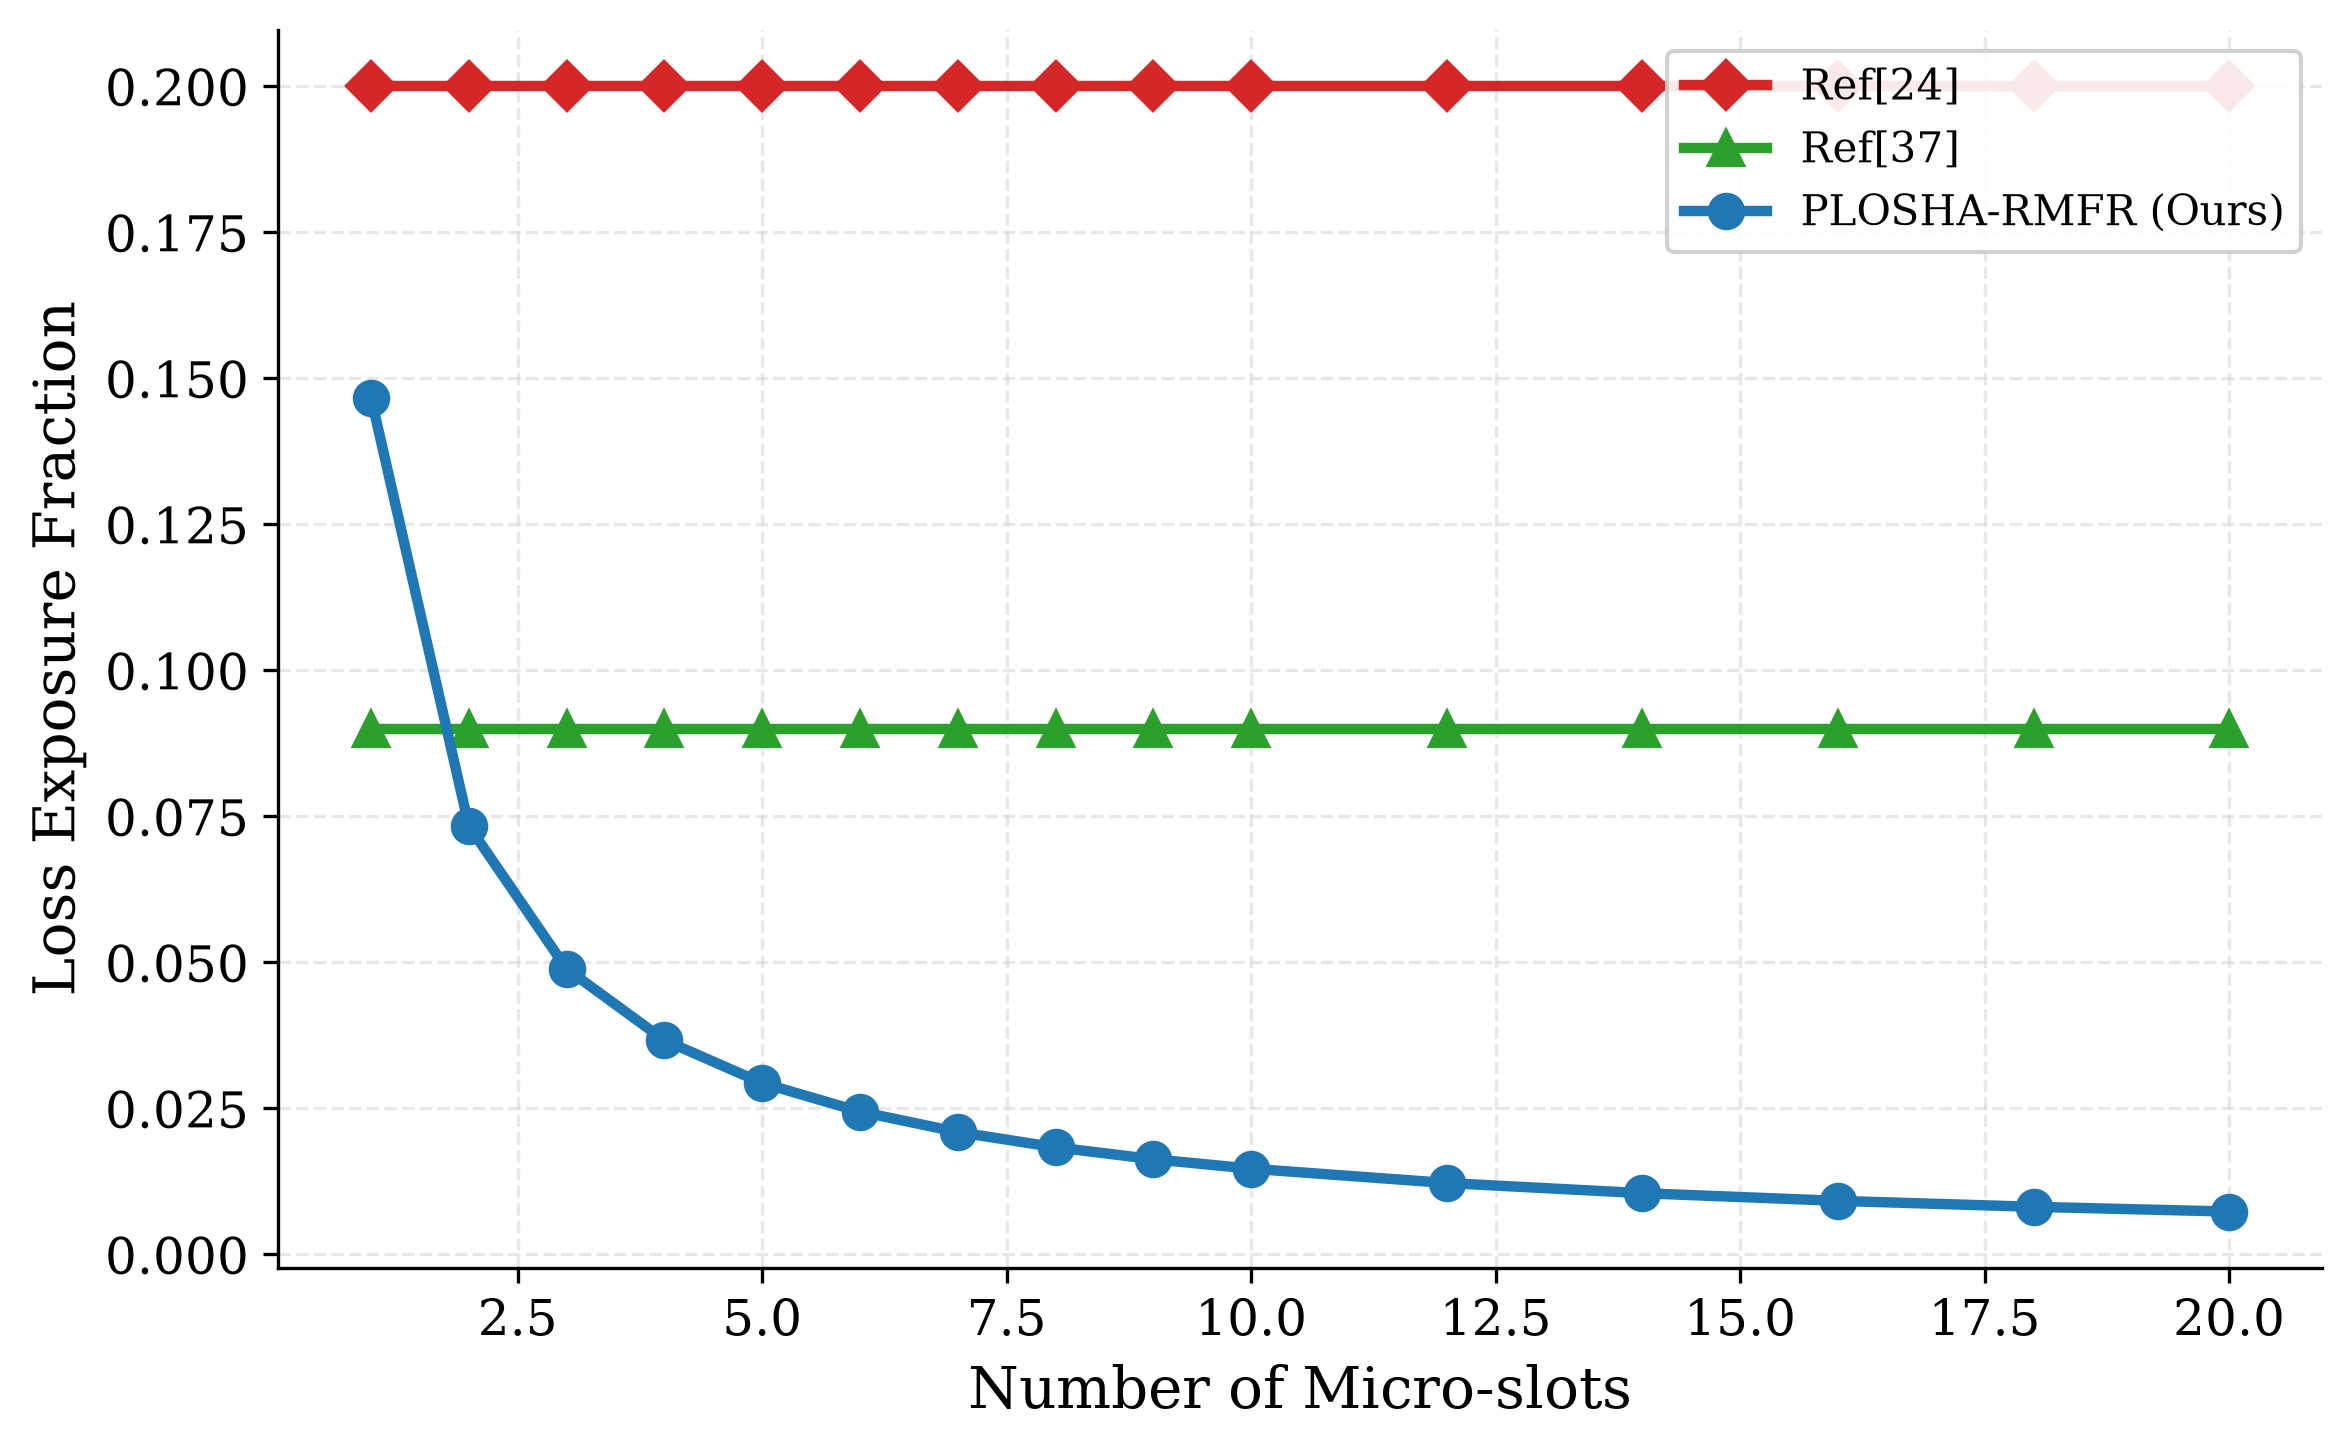
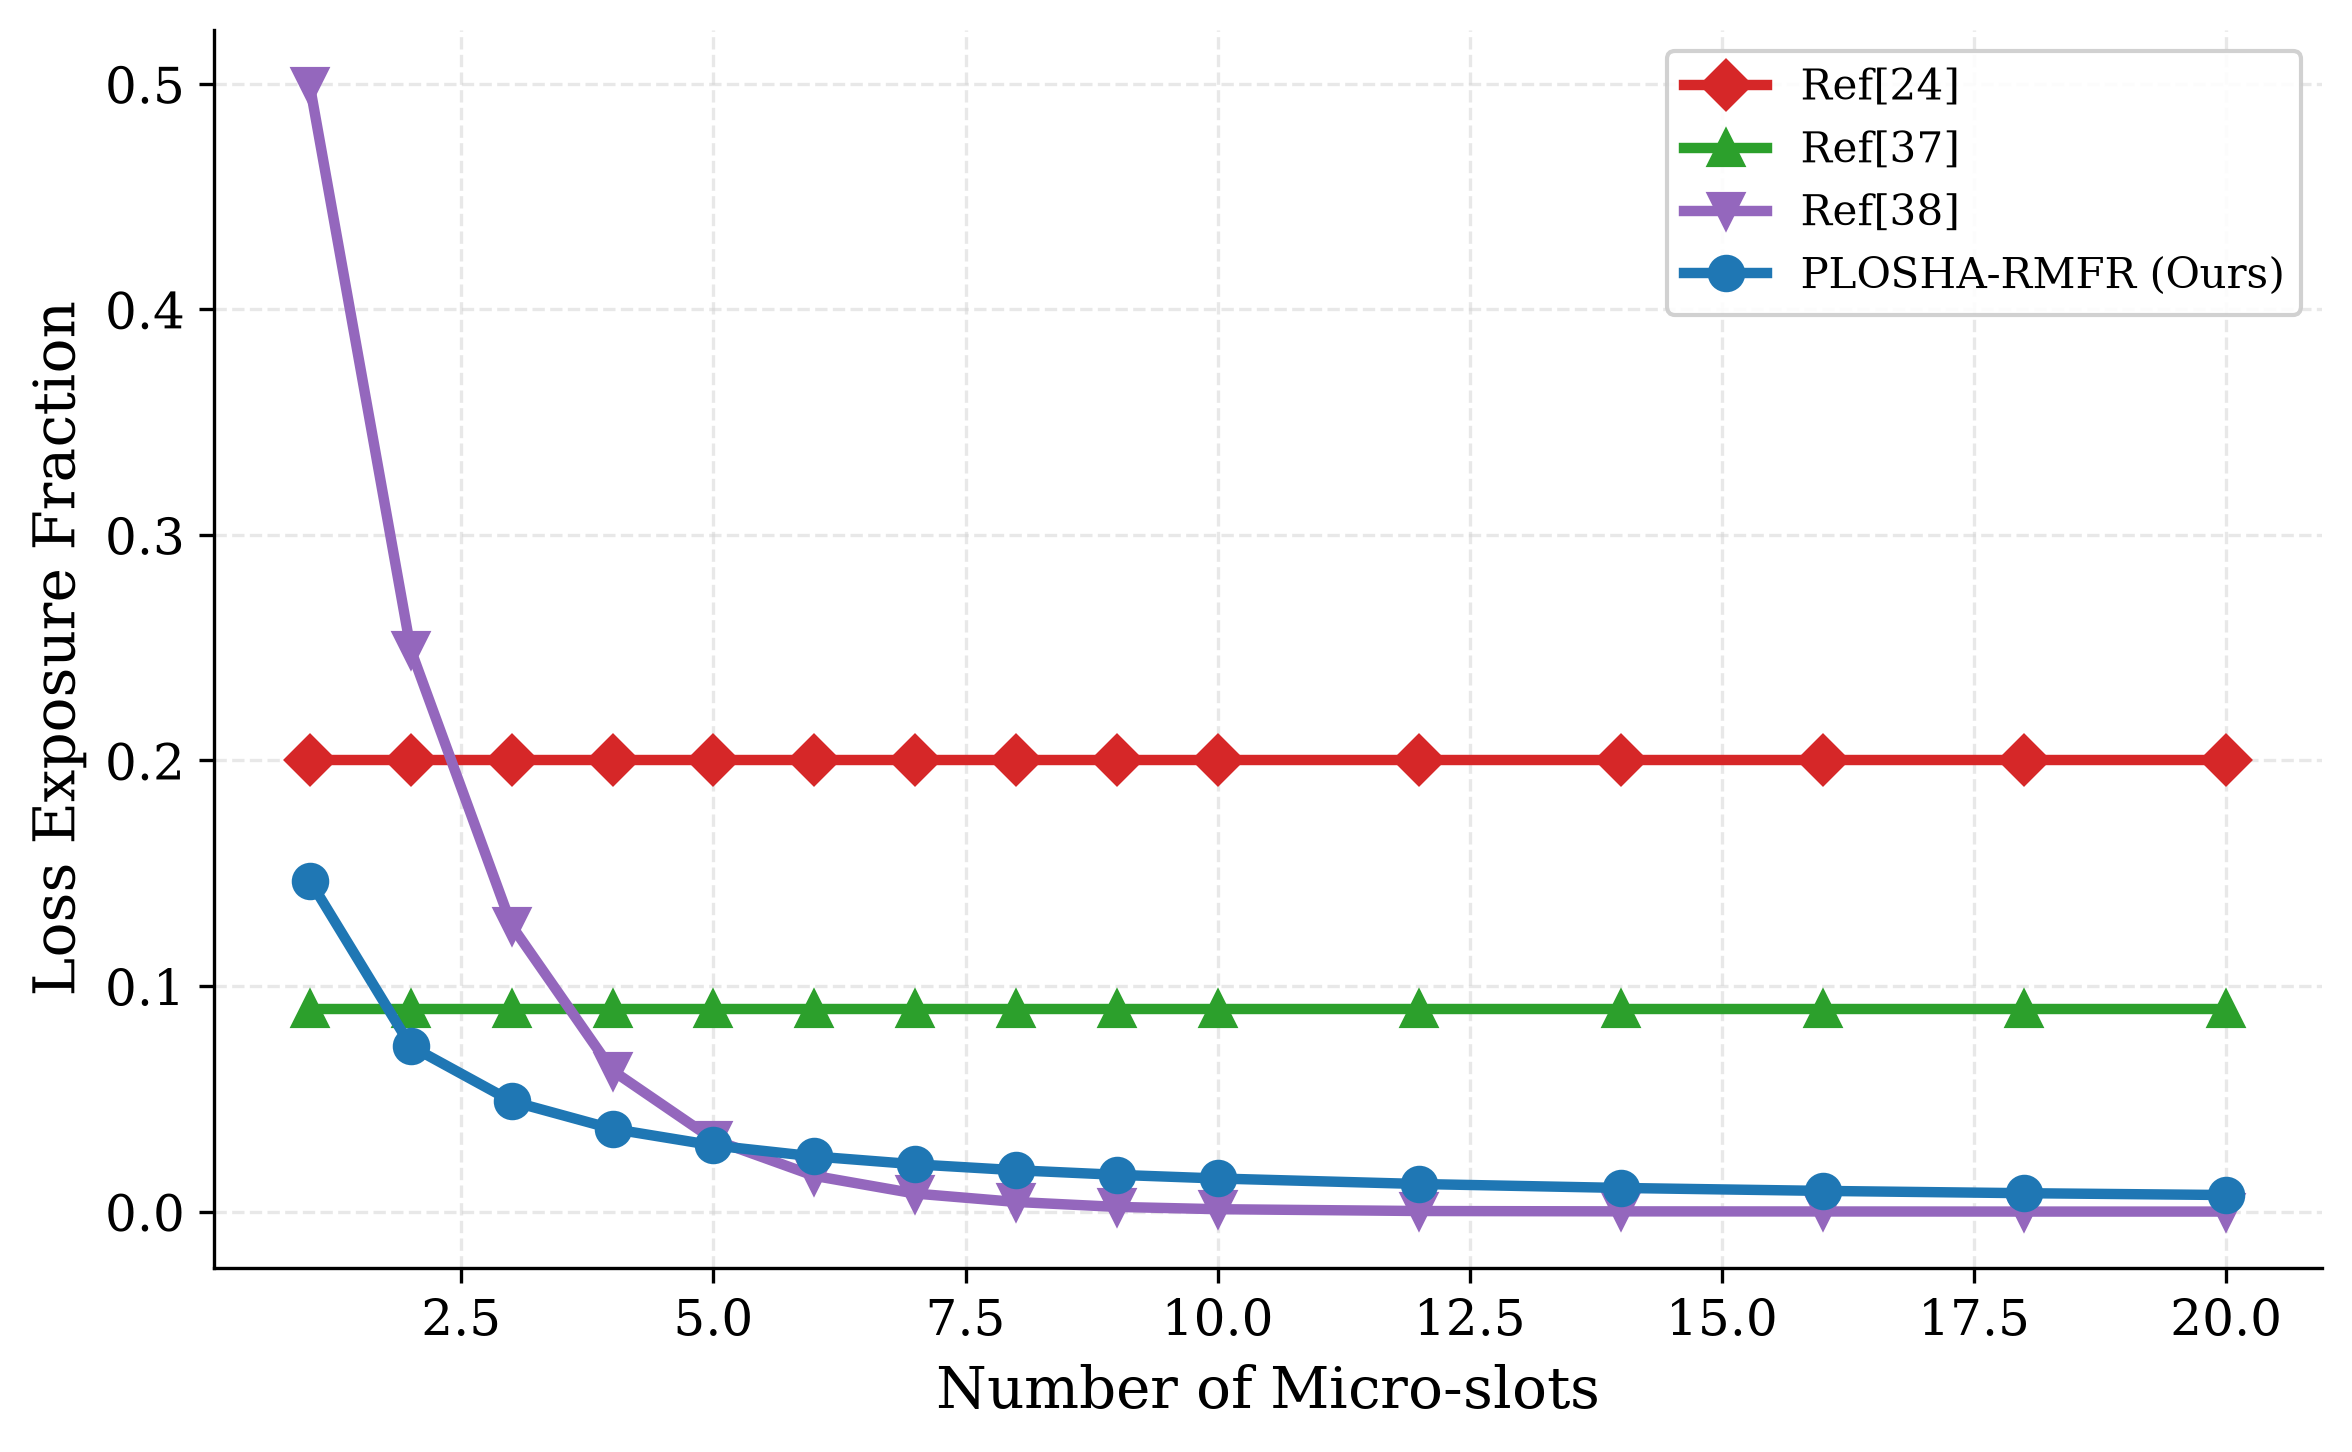
hope it last time

diff --git a/plots/generate_plots.py b/plots/generate_plots.py
@@ -165,8 +165,7 @@ def main():
                     x_col='micro_slots', y_col='loss_exposure_fraction',
                     x_label='Number of Micro-slots', y_label='Loss Exposure Fraction',
                     output_filename='graph4_loss_exposure.png',
-                    legend_loc='upper right',
-                    exclude_schemes=['ft_serverless_edge'])
+                    legend_loc='upper right')
 
     # Graph 5: Recovery Communication
     plot_experiment('exp5_recovery_comm',
@@ -379,8 +378,9 @@ def plot_exp2_scheduling_efficiency():
         print("No data found for experiment exp2_scheduling_efficiency")
         return
 
-    fig, ax = plt.subplots(figsize=(8, 5), dpi=300)
+    fig, (ax1, ax2) = plt.subplots(1, 2, figsize=(14, 5), dpi=300)
 
+    # --- Subplot (a): Scheduling Latency ---
     y_col = 'scheduling_latency_ms'
     y_label = 'Scheduling Latency (ms)'
 
@@ -388,23 +388,50 @@ def plot_exp2_scheduling_efficiency():
         if y_col not in df.columns:
             continue
         info = exp2_schemes[scheme_id]
-        ax.plot(df['num_fog_nodes'], df[y_col],
+        ax1.plot(df['num_fog_nodes'], df[y_col],
                 label=info['label'], color=info['color'],
                 marker=info['marker'], linewidth=2.5, markersize=8,
                 linestyle=info.get('linestyle', '-'),
                 zorder=5 if 'plosha' in scheme_id else 3)
 
-    ax.set_xlabel('Number of Fog Nodes')
-    ax.set_ylabel(y_label)
-    ax.set_yscale('log')
-    setup_axes(ax)
+    ax1.set_xlabel('Number of Fog Nodes')
+    ax1.set_ylabel(y_label)
+    ax1.set_yscale('log')
+    ax1.set_title('(a) Scheduling Latency', fontsize=12, pad=8)
+    setup_axes(ax1)
 
-    # Legend — Refs first, then Ours
-    handles, labels = ax.get_legend_handles_labels()
-    sorted_pairs = sorted(zip(handles, labels),
+    handles1, labels1 = ax1.get_legend_handles_labels()
+    sorted_pairs1 = sorted(zip(handles1, labels1),
                           key=lambda p: (1 if 'Ours' in p[1] else 0, p[1]))
-    handles_sorted, labels_sorted = zip(*sorted_pairs)
-    ax.legend(handles_sorted, labels_sorted, loc='upper left', frameon=True)
+    handles_sorted1, labels_sorted1 = zip(*sorted_pairs1)
+    ax1.legend(handles_sorted1, labels_sorted1, loc='upper left', frameon=True)
+
+    # --- Subplot (b): Workload Imbalance ---
+    y_col2 = 'workload_imbalance'
+    y_label2 = 'Workload Imbalance ($I_W$)'
+
+    for scheme_id, df in data.items():
+        if y_col2 not in df.columns:
+            continue
+        info = exp2_schemes[scheme_id]
+        ax2.plot(df['num_fog_nodes'], df[y_col2],
+                label=info['label'], color=info['color'],
+                marker=info['marker'], linewidth=2.5, markersize=8,
+                linestyle=info.get('linestyle', '-'),
+                zorder=5 if 'plosha' in scheme_id else 3)
+
+    ax2.set_xlabel('Number of Fog Nodes')
+    ax2.set_ylabel(y_label2)
+    ax2.set_yscale('log')
+    ax2.set_title('(b) Workload Imbalance', fontsize=12, pad=8)
+    setup_axes(ax2)
+
+    handles2, labels2 = ax2.get_legend_handles_labels()
+    sorted_pairs2 = sorted(zip(handles2, labels2),
+                          key=lambda p: (1 if 'Ours' in p[1] else 0, p[1]))
+    handles_sorted2, labels_sorted2 = zip(*sorted_pairs2)
+    ax2.legend(handles_sorted2, labels_sorted2, loc='upper right', frameon=True)
+
     fig.tight_layout()
 
     out_path = OUTPUT_DIR / 'graph2_scheduling_efficiency.png'

diff --git a/schemes/fault_tolerant_workflow/src/ft_engine.cpp b/schemes/fault_tolerant_workflow/src/ft_engine.cpp
@@ -81,7 +81,11 @@ FTEngine::runEpoch(const ExperimentConfig &config, std::vector<Sensor> &sensors,
     }
   }
 
-  // Performance Fluctuation update
+  // Performance Fluctuation update + Scheduling Decision
+  // Ref[37] scheduling = performance-fluctuation estimation (EWMA update)
+  //                    + task-duration estimation per node
+  //                    + resubmission-vs-replication decision
+  // All three steps constitute the scheduling decision and are timed together.
   auto sched_start = std::chrono::high_resolution_clock::now();
   std::uniform_real_distribution<double> perf_dist(PERF_COEFF_MIN,
                                                    PERF_COEFF_MAX);
@@ -91,10 +95,23 @@ FTEngine::runEpoch(const ExperimentConfig &config, std::vector<Sensor> &sensors,
                       (1.0 - PERF_EWMA_ALPHA) * fn.perfCoefficient();
     fn.updatePerfCoefficient(smoothed);
   }
+
+  // Task-duration estimation and recovery-mode decision per fog node
+  // (this is the actual scheduling work that Ref[37] performs)
+  std::vector<double> T_task_estimates(num_fog, 0.0);
+  std::vector<bool>   use_resubmission_flags(num_fog, false);
+  for (int f = 0; f < num_fog; ++f) {
+    auto state = fog_nodes[f].getState();
+    int queue_sz = fog_nodes[f].currentQueueSize();
+    double T_task_est = (queue_sz * beta_t_calibrated_ * 1000.0) /
+                        state.perf_coeff;
+    T_task_estimates[f] = T_task_est;
+    use_resubmission_flags[f] = (T_task_est < TASK_DURATION_THRESHOLD_MS);
+  }
   auto sched_end = std::chrono::high_resolution_clock::now();
   metrics.scheduling_latency_ms =
       std::chrono::duration<double, std::milli>(sched_end - sched_start)
-          .count();
+      .count();
 
   double total_agg_latency = 0.0;
   double total_completeness = 0.0;
@@ -109,19 +126,16 @@ FTEngine::runEpoch(const ExperimentConfig &config, std::vector<Sensor> &sensors,
   for (int f = 0; f < num_fog; ++f) {
     bool node_failed = fog_nodes[f].isFailed();
     pre_drain_counts[f] = fog_nodes[f].currentQueueSize();
-    auto state =
-        fog_nodes[f]
-            .getState(); // Capture state BEFORE drain (for other metrics)
+    auto state = fog_nodes[f].getState();
     total_queue_util += state.queue_load;
     auto queued_readings = fog_nodes[f].drainQueue();
 
     if (queued_readings.empty())
       continue;
 
-    // Estimate Task Duration
-    double T_task_est = (queued_readings.size() * beta_t_calibrated_ * 1000.0) /
-                        state.perf_coeff;
-    bool use_resubmission = (T_task_est < TASK_DURATION_THRESHOLD_MS);
+    // Use pre-computed scheduling decisions
+    double T_task_est = T_task_estimates[f];
+    bool use_resubmission = use_resubmission_flags[f];
 
     auto start = std::chrono::high_resolution_clock::now();
 
@@ -233,7 +247,7 @@ FTEngine::runEpoch(const ExperimentConfig &config, std::vector<Sensor> &sensors,
       double diff = w_i - w_bar;
       var_sum += diff * diff;
     }
-    metrics.workload_imbalance = std::sqrt(var_sum / num_fog);
+    metrics.workload_imbalance = std::sqrt(var_sum / num_fog) / (w_bar + 1e-9);
   }
 
   return metrics;
@@ -415,7 +429,7 @@ void FTEngine::runExp9_SchedulingEfficiency(const ExperimentConfig &config) {
             epoch_metrics.scheduling_comm_kb = (exp_config.num_fog_nodes * 32.0) / 1024.0;
             metrics_.recordEpoch(epoch_metrics);
             
-            if (e >= 12 && convergence_epoch == -1 && epoch_metrics.workload_imbalance < 0.1) {
+            if (e >= 12 && convergence_epoch == -1 && epoch_metrics.workload_imbalance < 0.1 * exp_config.num_fog_nodes) {
                 convergence_epoch = e - 12;
             }
         }

diff --git a/schemes/plosha_rmfr/src/des_engine.cpp b/schemes/plosha_rmfr/src/des_engine.cpp
@@ -117,23 +117,24 @@ EpochMetrics DESEngine::runEpoch(
   // Inject failures FIRST so readings to failed nodes are dropped,
   // causing incomplete data that triggers RMFR recovery.
   if (config.failure_rate > 0.0) {
+    // Dedicated failure RNG: seeded from epoch_index only (mixed with a
+    // single draw from the main rng for per-iteration variation), so the
+    // failure realization is independent of num_sensors.  This eliminates
+    // the stride-dependent PRNG divergence that caused the unexplained
+    // curve shape (spikes) in Graph 1.
+    std::mt19937 fail_rng(std::hash<int>{}(epoch_index) ^ rng());
     std::weibull_distribution<double> weibull(1.5, config.failure_rate);
-    double current_fail_rate = std::min(1.0, weibull(rng));
+    double current_fail_rate = std::min(1.0, weibull(fail_rng));
 
     // Reset all to non-failed first
     for (auto &fn : fog_nodes)
       fn.setFailed(false);
 
-    // Independent Bernoulli(current_fail_rate) trial per node. The previous
-    // implementation converted the rate to a node COUNT via
-    // ceil(rate * num_fog), which quantizes the realized failure fraction
-    // and biases it in a num_fog-dependent way (measured: +0.7pp at 5 nodes
-    // to -5.4pp at 50 nodes vs. the nominal rate, after the num_fog-1 cap).
-    // Per-node trials realize the nominal rate without count rounding.
+    // Independent Bernoulli(current_fail_rate) trial per node.
     std::uniform_real_distribution<double> fail_coin(0.0, 1.0);
     int num_failures = 0;
     for (auto &fn : fog_nodes) {
-      if (fail_coin(rng) < current_fail_rate) {
+      if (fail_coin(fail_rng) < current_fail_rate) {
         fn.setFailed(true);
         ++num_failures;
       }
@@ -142,7 +143,7 @@ EpochMetrics DESEngine::runEpoch(
     // Keep at least 1 node alive (same invariant as before).
     if (num_failures == num_fog) {
       std::uniform_int_distribution<int> pick(0, num_fog - 1);
-      fog_nodes[pick(rng)].setFailed(false);
+      fog_nodes[pick(fail_rng)].setFailed(false);
     }
   }
 
@@ -499,7 +500,10 @@ EpochMetrics DESEngine::runEpoch(
     double diff = w_i - w_bar;
     var_sum += diff * diff;
   }
-  metrics.workload_imbalance = std::sqrt(var_sum / config.num_fog_nodes);
+  // Paper Eq. (Exp2): I_W = sqrt(1/|F| * sum((W_i - W_bar)^2)) / (W_bar + eps)
+  // This is the coefficient of variation (CV), not raw standard deviation.
+  double iw_std = std::sqrt(var_sum / config.num_fog_nodes);
+  metrics.workload_imbalance = iw_std / (w_bar + 1e-9);
 
   // Update EWMA states for next epoch
   for (int f = 0; f < config.num_fog_nodes; ++f) {
@@ -1132,7 +1136,7 @@ void DESEngine::runExp9_SchedulingEfficiency(const ExperimentConfig &config) {
         metrics_.recordEpoch(epoch_metrics);
 
         if (e >= 12 && convergence_epoch == -1 &&
-            epoch_metrics.workload_imbalance < 0.1) {
+            epoch_metrics.workload_imbalance < 0.1 * exp_config.num_fog_nodes) {
           convergence_epoch = e - 12;
         }
       }

diff --git a/schemes/fed_dqn/src/fed_dqn_sim.cpp b/schemes/fed_dqn/src/fed_dqn_sim.cpp
@@ -814,8 +814,8 @@ FedDQNMetrics FedDQNSimulation::Run() {
           double diff = w_i - w_bar;
           var_sum += diff * diff;
         }
-        double episode_imbalance = std::sqrt(var_sum / num_fog_nodes_);
-        if (episode_imbalance < 0.1) {
+        double episode_imbalance = std::sqrt(var_sum / num_fog_nodes_) / (w_bar + 1e-9);
+        if (episode_imbalance < 0.1 * num_fog_nodes_) {
           convergence_epoch = episode - 12;
         }
       }
@@ -903,7 +903,7 @@ FedDQNMetrics FedDQNSimulation::Run() {
       double diff = w_i - w_bar;
       var_sum += diff * diff;
     }
-    metrics.workload_imbalance = std::sqrt(var_sum / num_fog_nodes_);
+    metrics.workload_imbalance = std::sqrt(var_sum / num_fog_nodes_) / (w_bar + 1e-9);
   }
 
   return metrics;

diff --git a/schemes/ft_serverless_edge/src/ft_experiments.cpp b/schemes/ft_serverless_edge/src/ft_experiments.cpp
@@ -400,7 +400,7 @@ SimResult FTServerlessEdgeSim::runExp9_SchedulingEfficiency() {
             double diff = w_i - w_bar;
             var_sum += diff * diff;
           }
-          total_imbalance_accum += std::sqrt(var_sum / n_cl);
+          total_imbalance_accum += std::sqrt(var_sum / n_cl) / (w_bar + 1e-9);
       }
       overall_sched_ms += total_sched_ms_accum / num_epochs;
       overall_imbalance += total_imbalance_accum / num_epochs;

diff --git a/schemes/plosha_rmfr/src/rmfr.cpp b/schemes/plosha_rmfr/src/rmfr.cpp
@@ -59,7 +59,7 @@ int RMFREngine::selectRecoveryCandidate(
       continue;
 
     double utility = ALPHA_C * predictions[j].capacity +
-                     ALPHA_R * fog_nodes[j].getState().reliability +
+                     ALPHA_R * fog_nodes[j].reliability() +
                      ALPHA_K * (1.0 - predictions[j].risk);
 
     if (utility > best_utility) {

diff --git a/schemes/plosha_rmfr/src/fog_node.hpp b/schemes/plosha_rmfr/src/fog_node.hpp
@@ -62,6 +62,7 @@ public:
     const std::vector<int>& assignedSensors() const { return assigned_sensors_; }
     int queueCapacity() const { return queue_capacity_; }
     int currentQueueSize() const;
+    double reliability() const { return reliability_; }
 
 private:
     int fog_id_;